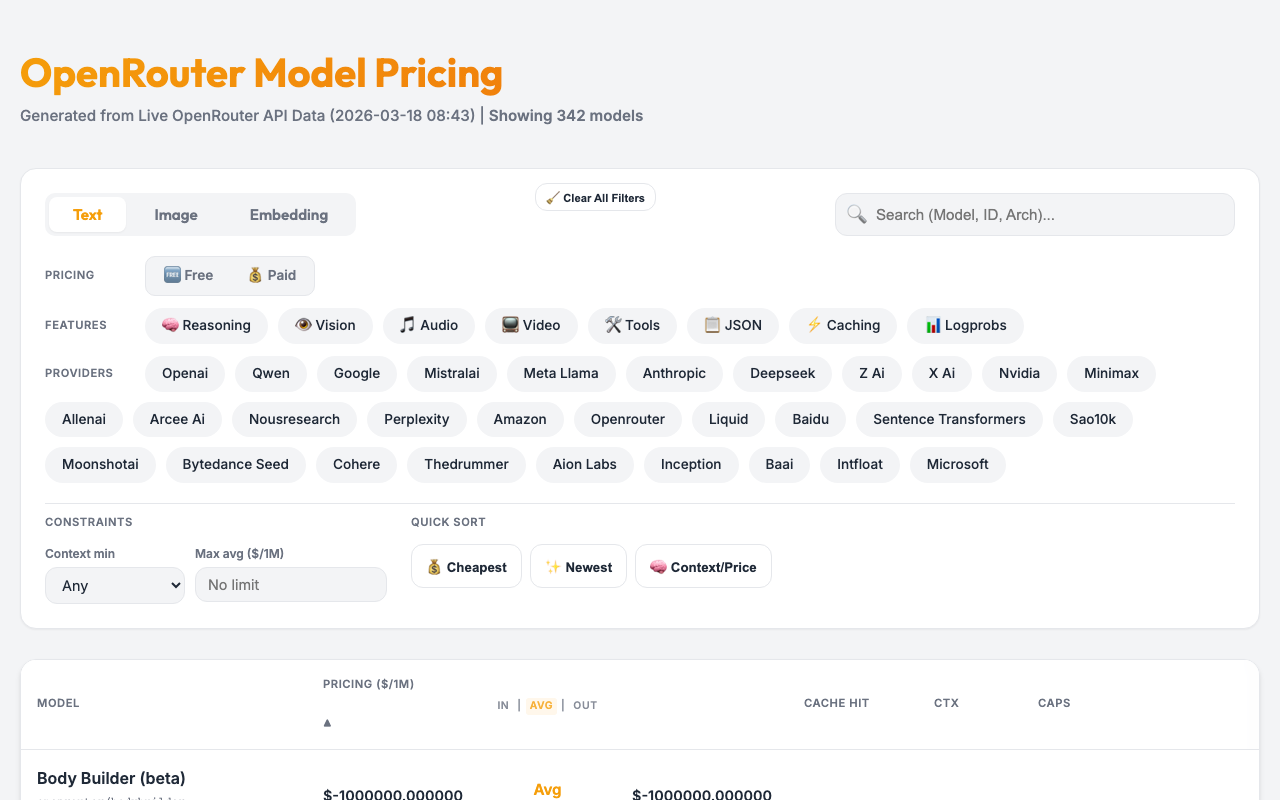
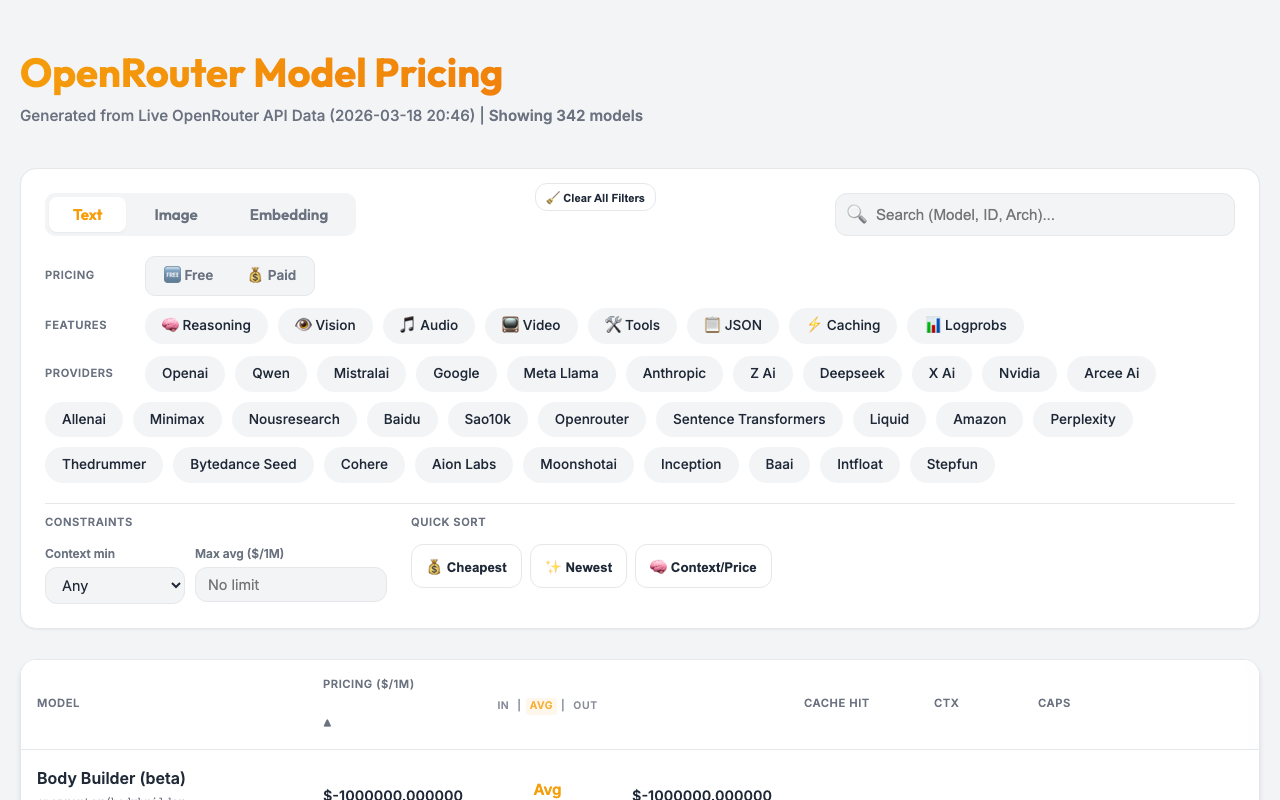
chore: automated pricing update (2026-03-18 20:46:40)
🔄 Changed Models (1): z-ai/glm-4.7

diff --git a/docs/index.html b/docs/index.html
@@ -634,7 +634,7 @@
     <div class="container">
         <header>
             <h1>OpenRouter Model Pricing</h1>
-            <div class="meta">Generated from Live OpenRouter API Data (2026-03-18 08:43)</div>
+            <div class="meta">Generated from Live OpenRouter API Data (2026-03-18 20:46)</div>
         </header>
 
         <div class="controls">
@@ -3588,9 +3588,9 @@
         "instruct_type": null
       },
       "pricing": {
-        "prompt": "0.00000038",
-        "completion": "0.00000198",
-        "input_cache_read": "0.00000019"
+        "prompt": "0.0000004",
+        "completion": "0.00000175",
+        "input_cache_read": "0.00000008"
       },
       "top_provider": {
         "context_length": 202752,
@@ -18959,7 +18959,7 @@
   ],
   "other": []
 };
-        window.providerOptions = ['openai', 'qwen', 'google', 'mistralai', 'meta-llama', 'anthropic', 'deepseek', 'z-ai', 'x-ai', 'nvidia', 'minimax', 'allenai', 'arcee-ai', 'nousresearch', 'perplexity', 'amazon', 'openrouter', 'liquid', 'baidu', 'sentence-transformers', 'sao10k', 'moonshotai', 'bytedance-seed', 'cohere', 'thedrummer', 'aion-labs', 'inception', 'baai', 'intfloat', 'microsoft', 'stepfun', 'relace', 'inflection', 'morph', 'thenlper', 'essentialai', 'switchpoint', 'alfredpros', 'mancer', 'eleutherai', 'bytedance', 'ai21', 'anthracite-org', 'xiaomi', 'nex-agi', 'deepcogito', 'alpindale', 'alibaba', 'tencent', 'upstage', 'cognitivecomputations', 'kwaipilot', 'meituan', 'gryphe', 'ibm-granite', 'prime-intellect', 'writer', 'tngtech', 'undi95'];
+        window.providerOptions = ['openai', 'qwen', 'mistralai', 'google', 'meta-llama', 'anthropic', 'z-ai', 'deepseek', 'x-ai', 'nvidia', 'arcee-ai', 'allenai', 'minimax', 'nousresearch', 'baidu', 'sao10k', 'openrouter', 'sentence-transformers', 'liquid', 'amazon', 'perplexity', 'thedrummer', 'bytedance-seed', 'cohere', 'aion-labs', 'moonshotai', 'inception', 'baai', 'intfloat', 'stepfun', 'morph', 'inflection', 'thenlper', 'microsoft', 'relace', 'deepcogito', 'essentialai', 'bytedance', 'kwaipilot', 'alibaba', 'xiaomi', 'undi95', 'ai21', 'meituan', 'mancer', 'alfredpros', 'writer', 'prime-intellect', 'alpindale', 'nex-agi', 'eleutherai', 'switchpoint', 'gryphe', 'ibm-granite', 'anthracite-org', 'cognitivecomputations', 'tencent', 'tngtech', 'upstage'];
         let currentTab = 'text';
         let sortKey = 'price_avg';
         let sortAsc = true;
